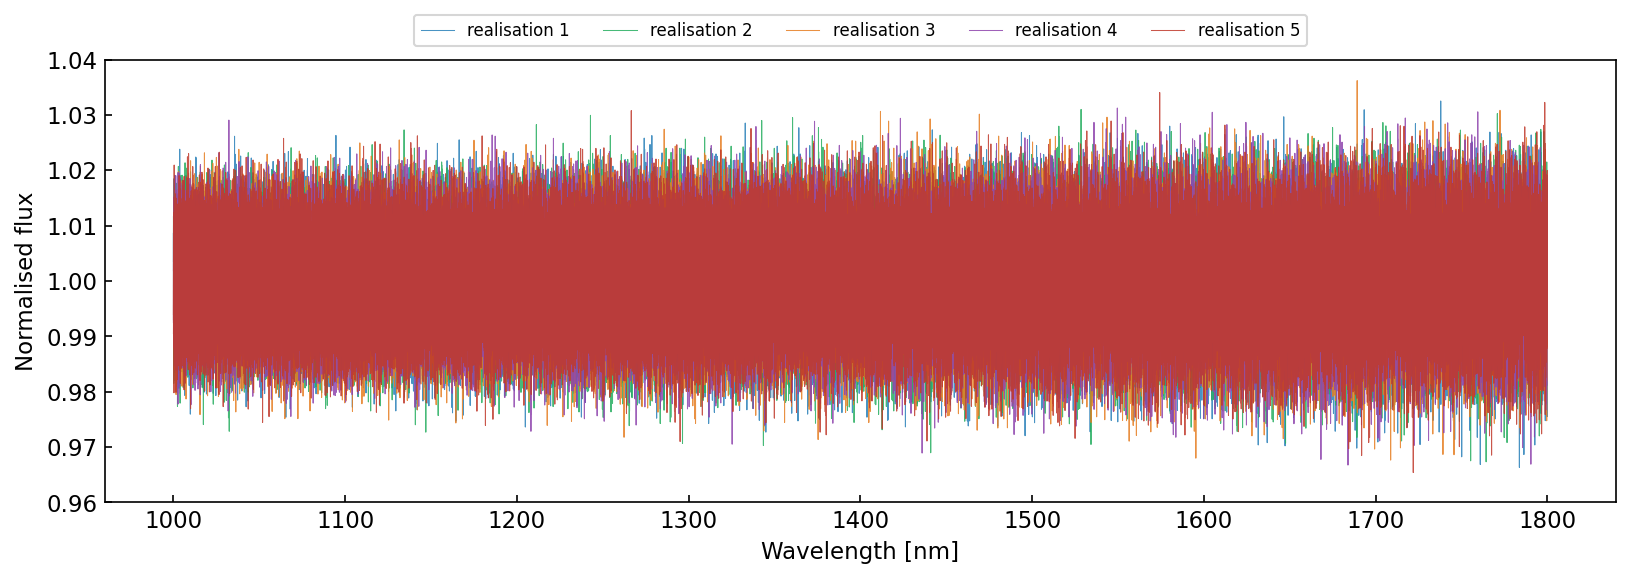
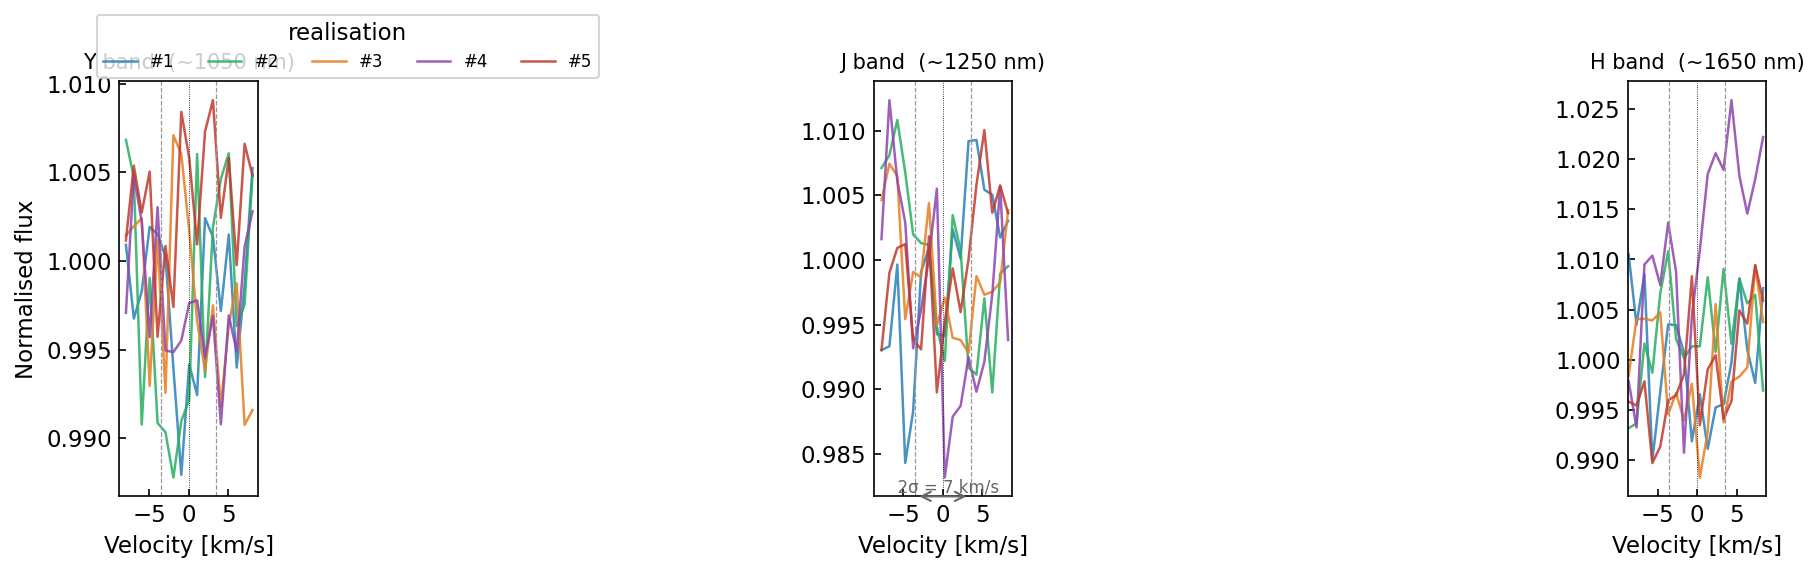
Replace amplitude figure with 3-band correlated noise zooms

diff --git a/index.html b/index.html
@@ -322,28 +322,19 @@
   </p>
 
   <div class="fig-wrap">
-    <img src="figures/demo_amplitude.png" alt="Amplitude envelope vs wavelength"/>
+    <img src="figures/demo_realizations.png" alt="Zoom on correlated modal noise"/>
     <p class="fig-caption en">
-      Empirical RMS of the modal noise over 50 realisations (blue) vs. the analytical
-      amplitude model A₁₆₅₀ × λ/1650 (red dashed).
+      Five independent realisations (colours) zoomed into three 5-coherence-length
+      windows across the Y, J and H bands (each window spans 5 × 3.5 km/s = 17.5 km/s).
+      Within each window the noise is spectrally correlated and smooth; dashed lines
+      mark ±1 kernel width. The amplitude increases from Y to H as expected.
     </p>
     <p class="fig-caption fr">
-      RMS empirique du bruit modal sur 50 réalisations (bleu) comparé au modèle
-      analytique A₁₆₅₀ × λ/1650 (rouge pointillé).
-    </p>
-  </div>
-
-  <div class="fig-wrap">
-    <img src="figures/demo_realizations.png" alt="Five independent realisations"/>
-    <p class="fig-caption en">
-      Five independent realisations drawn with the same kernel parameters.
-      Each represents a distinct modal-noise pattern as would be observed
-      between different fibre agitation states.
-    </p>
-    <p class="fig-caption fr">
-      Cinq réalisations indépendantes tirées avec les mêmes paramètres de noyau.
-      Chacune représente un patron de bruit modal distinct, tel qu'observé entre
-      différents états d'agitation de la fibre.
+      Cinq réalisations indépendantes (couleurs) zoomées sur trois fenêtres de
+      5 longueurs de cohérence dans les bandes Y, J et H (chaque fenêtre couvre
+      5 × 3,5 km/s = 17,5 km/s). À l'intérieur de chaque fenêtre, le bruit est
+      spectralement corrélé et lisse ; les tirets marquent ±1 largeur de noyau.
+      L'amplitude croît de Y vers H comme attendu.
     </p>
   </div>
 </section>

diff --git a/demo.py b/demo.py
@@ -13,6 +13,7 @@ Path('figures').mkdir(exist_ok=True)
 
 WAVE_BANDS = {'Y': (960, 1100), 'J': (1150, 1350), 'H': (1450, 1800)}
 COLORS     = ['#2980b9', '#27ae60', '#e67e22', '#8e44ad', '#c0392b']
+C_LIGHT    = 299792.458  # km/s
 
 plt.rcParams.update({'font.size': 11, 'axes.linewidth': 0.8,
                      'xtick.direction': 'in', 'ytick.direction': 'in'})
@@ -23,8 +24,8 @@ fig, axes = plt.subplots(2, 1, figsize=(11, 5), sharex=True)
 wave, spec, gp = generate_spectrum(seed=7)
 
 ax = axes[0]
-ax.plot(wave, spec,      color='0.55', lw=0.35, label='spectrum (GP + noise)')
-ax.plot(wave, 1 + gp,   color='#2980b9', lw=0.8, label='GP modal noise')
+ax.plot(wave, spec,    color='0.55', lw=0.35, label='spectrum (GP + noise)')
+ax.plot(wave, 1 + gp, color='#2980b9', lw=0.8, label='GP modal noise')
 ax.set_ylabel('Normalised flux')
 ax.legend(fontsize=9, loc='upper left')
 ax.set_ylim(0.96, 1.04)
@@ -45,45 +46,52 @@ fig.savefig('figures/demo_spectrum.png', dpi=150, bbox_inches='tight')
 plt.close()
 print('figures/demo_spectrum.png')
 
-# ── figure 2: five realisations overlaid ─────────────────────────────────────
-fig, ax = plt.subplots(figsize=(11, 4))
+# ── figure 2: 3 zoomed regions (5 × kernel_width each), 5 realisations ───────
+kernel_width   = DEFAULTS['kernel_width_kms']
+zoom_kms       = 5 * kernel_width          # total window width in velocity
+zoom_centers   = [1050.0, 1250.0, 1650.0]  # nm  (Y, J, H)
+zoom_labels    = ['Y band  (~1050 nm)', 'J band  (~1250 nm)', 'H band  (~1650 nm)']
 
-for i, seed in enumerate(range(5)):
-    wave, spec, gp = generate_spectrum(seed=seed)
-    ax.plot(wave, spec, color=COLORS[i], lw=0.5, alpha=0.85,
-            label=f'realisation {i+1}')
+# pre-generate 5 realisations
+reals = [generate_spectrum(seed=s) for s in range(5)]
 
-ax.set_xlabel('Wavelength [nm]')
-ax.set_ylabel('Normalised flux')
-ax.legend(fontsize=8, ncol=5, loc='upper center', bbox_to_anchor=(0.5, 1.12))
-ax.set_ylim(0.96, 1.04)
+fig, axes = plt.subplots(1, 3, figsize=(12, 4), sharey=False)
+
+for ax, center, label in zip(axes, zoom_centers, zoom_labels):
+    # window in wavelength
+    half_lam = center * (zoom_kms / 2) / C_LIGHT
+    lam_lo, lam_hi = center - half_lam, center + half_lam
+
+    for i, (wave, spec, gp) in enumerate(reals):
+        mask = (wave >= lam_lo) & (wave <= lam_hi)
+        # velocity relative to window centre for x-axis
+        vel_rel = (wave[mask] / center - 1) * C_LIGHT
+        ax.plot(vel_rel, spec[mask], color=COLORS[i], lw=1.2, alpha=0.85,
+                label=f'#{i+1}' if ax is axes[0] else None)
+
+    ax.axvline(0, color='k', lw=0.4, ls=':')
+    # mark ±1 kernel width
+    for sign in (-1, 1):
+        ax.axvline(sign * kernel_width, color='0.6', lw=0.6, ls='--')
+
+    ax.set_xlabel('Velocity [km/s]')
+    ax.set_title(label, fontsize=10)
+    ax.set_xlim(-zoom_kms / 2, zoom_kms / 2)
+
+axes[0].set_ylabel('Normalised flux')
+axes[0].legend(fontsize=8, ncol=5, loc='upper center',
+               bbox_to_anchor=(1.65, 1.18), title='realisation')
+
+# shared annotation: kernel width marker
+axes[1].annotate('', xy=(kernel_width, axes[1].get_ylim()[0]),
+                 xytext=(-kernel_width, axes[1].get_ylim()[0]),
+                 arrowprops=dict(arrowstyle='<->', color='0.4', lw=1.0))
+axes[1].text(0, axes[1].get_ylim()[0], f'  2σ = {2*kernel_width:.0f} km/s',
+             va='bottom', ha='center', fontsize=8, color='0.4')
+
 plt.tight_layout()
 fig.savefig('figures/demo_realizations.png', dpi=150, bbox_inches='tight')
 plt.close()
 print('figures/demo_realizations.png')
-
-# ── figure 3: wavelength-dependent amplitude envelope ────────────────────────
-fig, ax = plt.subplots(figsize=(7, 4))
-
-n_real = 50
-wave_ref, _, _ = generate_spectrum(seed=0)
-stds = np.zeros((n_real, len(wave_ref)))
-for i in range(n_real):
-    _, _, gp = generate_spectrum(seed=i)
-    stds[i] = gp
-
-rms_env = np.std(stds, axis=0)
-expected = DEFAULTS['amplitude_at_1650nm'] * (wave_ref / 1650.0)
-
-ax.plot(wave_ref, rms_env, color='#2980b9', lw=1.2, label='empirical RMS (50 draws)')
-ax.plot(wave_ref, expected, color='#e74c3c', lw=1.2, ls='--',
-        label=r'model: $A_{1650}\,\times\,\lambda/1650$')
-ax.set_xlabel('Wavelength [nm]')
-ax.set_ylabel('Modal noise RMS')
-ax.legend(fontsize=9)
-plt.tight_layout()
-fig.savefig('figures/demo_amplitude.png', dpi=150, bbox_inches='tight')
-plt.close()
-print('figures/demo_amplitude.png')
 
 print('\nAll figures written to figures/')